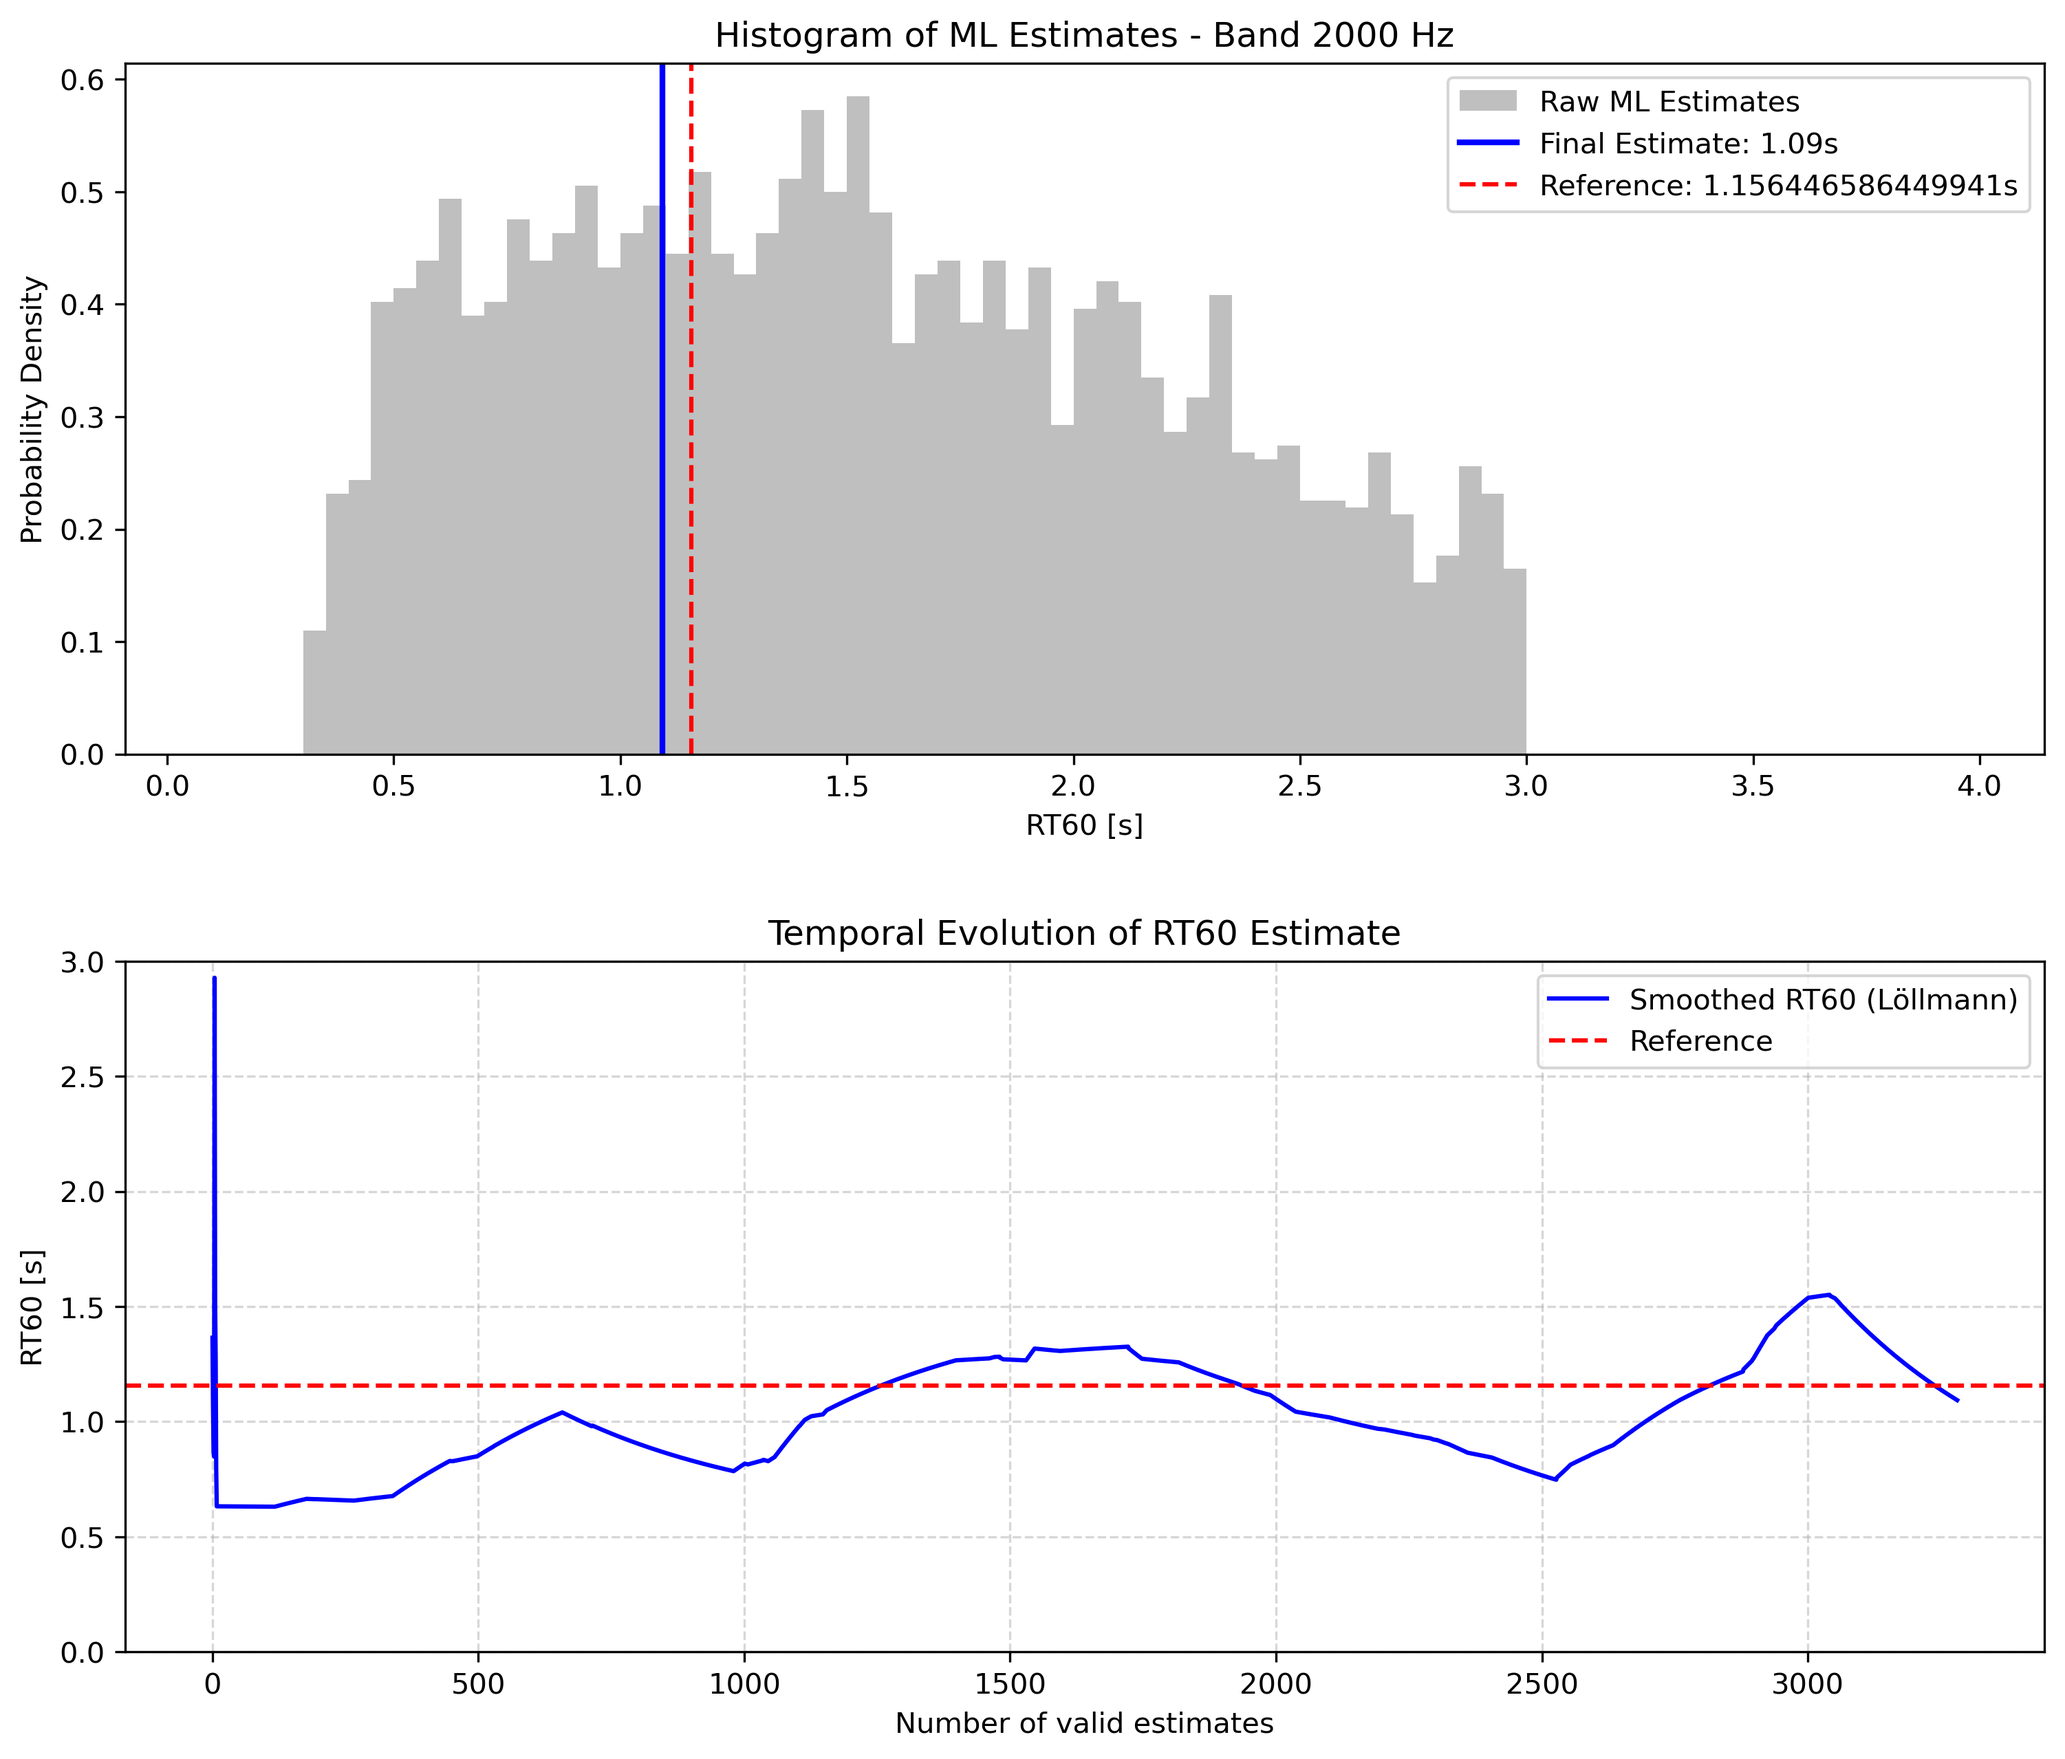
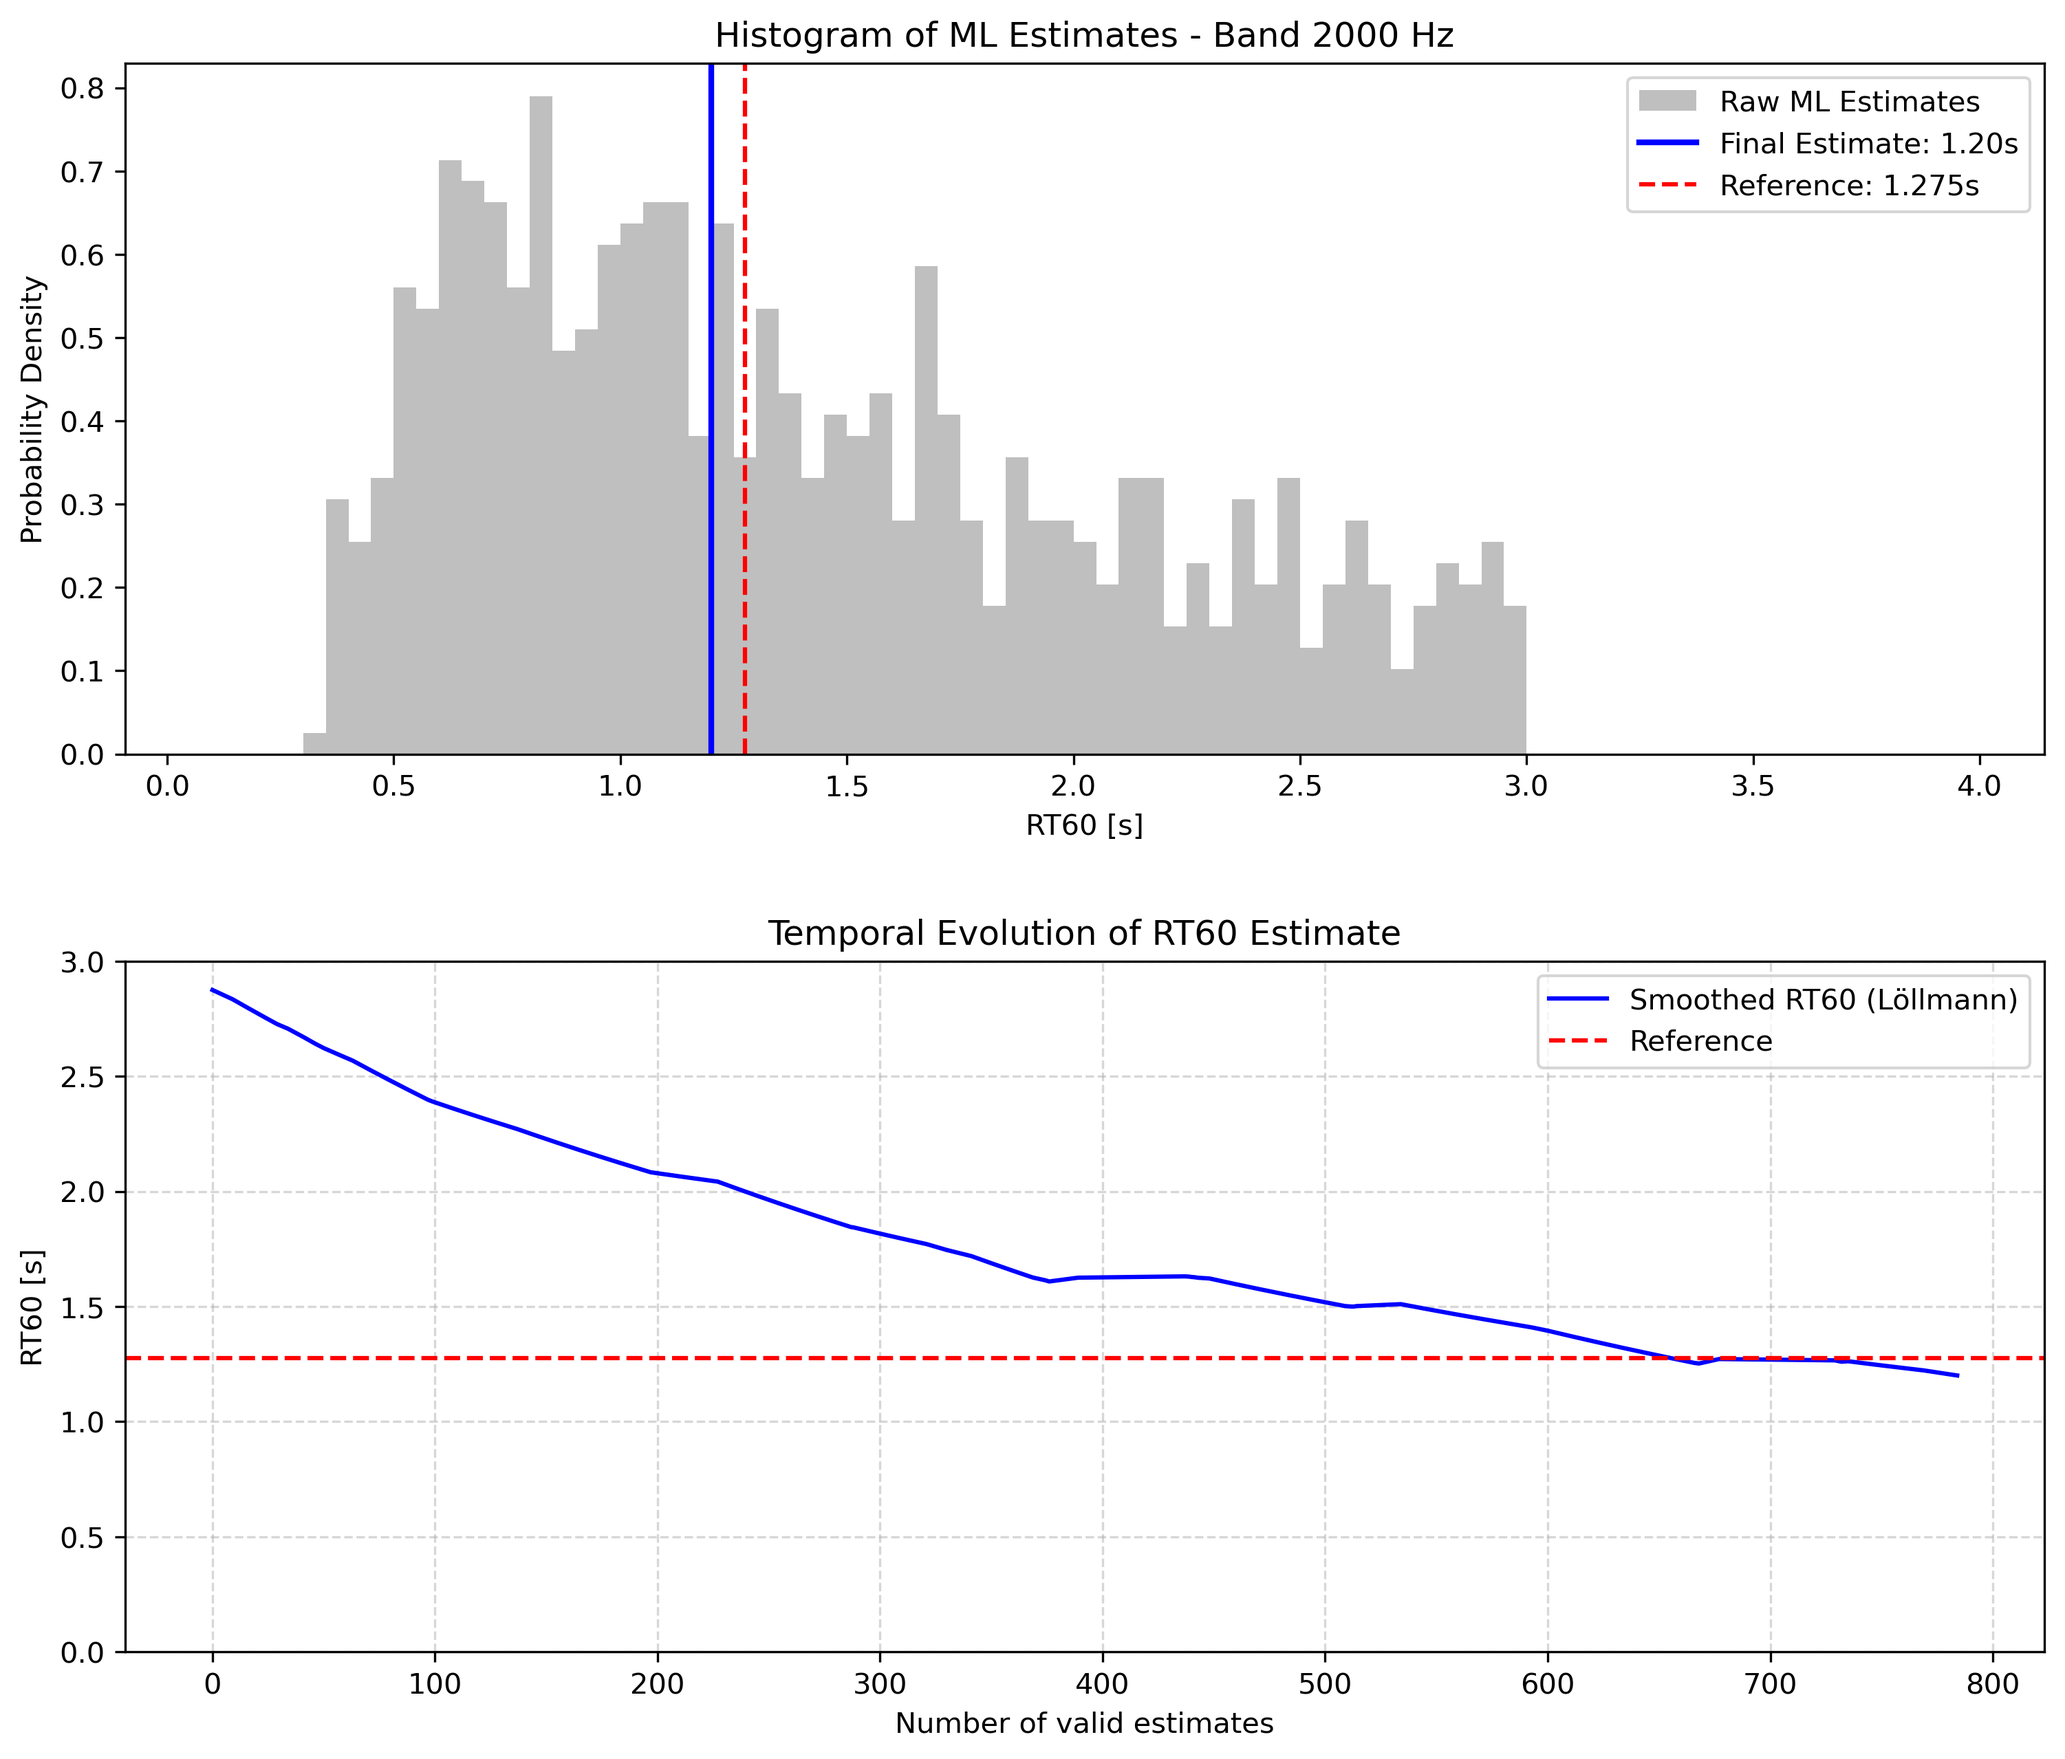
Verifiche finali

diff --git a/algorithms/reference.py b/algorithms/reference.py
@@ -2,12 +2,46 @@ import librosa
 import numpy as np
 import pyroomacoustics as pra
 from scipy import signal
+import pyroomacoustics as pra
+import numpy as np
+from scipy.signal import sosfilt, butter
+
+def bandpass_filter(signal, lowcut, highcut, fs, order=4):
+    nyq = fs / 2
+    low = lowcut / nyq
+    high = highcut / nyq
+    sos = butter(order, [low, high], btype='band', output='sos')
+    return sosfilt(sos, signal)
+
+# bande di ottava standard ISO 3382
+bands = {
+    125:  (88, 177),
+    250:  (177, 354),
+    500:  (354, 707),
+    1000: (707, 1414),
+    2000: (1414, 2828),
+    4000: (2828, 5657),
+}
 
 def extract_ground_truth_rt60(impulse_response, sr):
-    """ Estrae il RT60 dall'impulse responce usando il metodo di Schroeder
+    results = {}
+    for fc, (low, high) in bands.items():
+        filtered = bandpass_filter(impulse_response, low, high, sr)
+        rt60 = pra.experimental.measure_rt60(filtered, sr)
+        results[fc] = rt60
+        print(f"{fc} Hz: RT60 = {rt60:.3f} s")
+    
+    # media ISO sulle bande 500 e 1000 Hz
+    iso_mean = (results[500] + results[1000]) / 2
+    print(f"Media ISO (500-1000 Hz): {iso_mean:.3f} s")
+    return results, iso_mean
+
+"""
+def extract_ground_truth_rt60(impulse_response, sr):
+     Estrae il RT60 dall'impulse responce usando il metodo di Schroeder
     Ritorna:
     rt60: stima del RT60 in secondi
-    """
+
     rt60 = pra.experimental.measure_rt60(impulse_response, sr)
-    return rt60
+    return rt60 """
 

diff --git a/algorithms/lollmann.py b/algorithms/lollmann.py
@@ -226,7 +226,7 @@ def compute_final_rt60(
         if consecutive_diff >= q_threshold:
             # Il RT sta cambiando — switch all'istogramma veloce
             peak_to_use = peak_fast
-            beta = 0.99                     # smoothing basso, insegue velocemente il nuovo valore
+            beta = 0.2                     # smoothing basso, insegue velocemente il nuovo valore. era 0.99!
 
             # Resetta il buffer lento con i valori del veloce
             
@@ -237,7 +237,7 @@ def compute_final_rt60(
         else:
             # Condizioni stabili — usa l'istogramma lento
             peak_to_use = peak_slow
-            beta = 1-(1/min(kf, len(valid_estimates)))                 # smoothing forte, bassa varianza
+            beta = 0.995                 # smoothing forte, bassa varianza
 
         # --- Smoothing ricorsivo Eq. 15 di Löllmann ---
         # T60(t) = beta * T60(t-1) + (1-beta) * T60_picco(t)

diff --git a/main.py b/main.py
@@ -25,9 +25,16 @@ def main():
     recording, sr_recording = loader.load_audio(path_recording)
     
     #RT di riferimento
-    rt_reference = reference.extract_ground_truth_rt60(rir, sr_rir)
+    """rt_reference, rt_reference_iso = reference.extract_ground_truth_rt60(rir, sr_rir)
    
-    print(f"RT60 riferimento  {rt_reference:.2f} s")
+    #print(f"RT60 riferimento  {rt_reference:.2f} s")
+    print(f"RT60 riferimento (ISO)  {rt_reference_iso:.2f} s")
+    print(f"Durata RIR: {len(rir)/sr_rir:.3f} s")
+    print(f"Sample rate: {sr_rir} Hz")
+    print(f"Valore massimo: {np.max(np.abs(rir)):.4f}")
+    print(f"Valore minimo assoluto non zero: {np.min(np.abs(rir[rir!=0])):.6f}") """
+    
+    rt_reference= 1.275
     
     #Step 2: filtraggio per bande
     bands = band_filter.filter_all_bands(recording, sr_recording)

diff --git a/algorithms/spectral_flatness_selection.py b/algorithms/spectral_flatness_selection.py
@@ -126,8 +126,9 @@ def estimate_all_candidates_SF(candidates, weights, sr_downsampled):
         rt60 = lollmann.ML_estimate_one_candidate(segment, sr_downsampled, estimator)
         
         if rt60 is not None:
-            rt60_estimates.append(rt60)
-            rt60_weights.append(weight)
+            if rt60>0.0 and rt60<3.0:
+                rt60_estimates.append(rt60)
+                rt60_weights.append(weight)
     
     return rt60_estimates, rt60_weights
     
